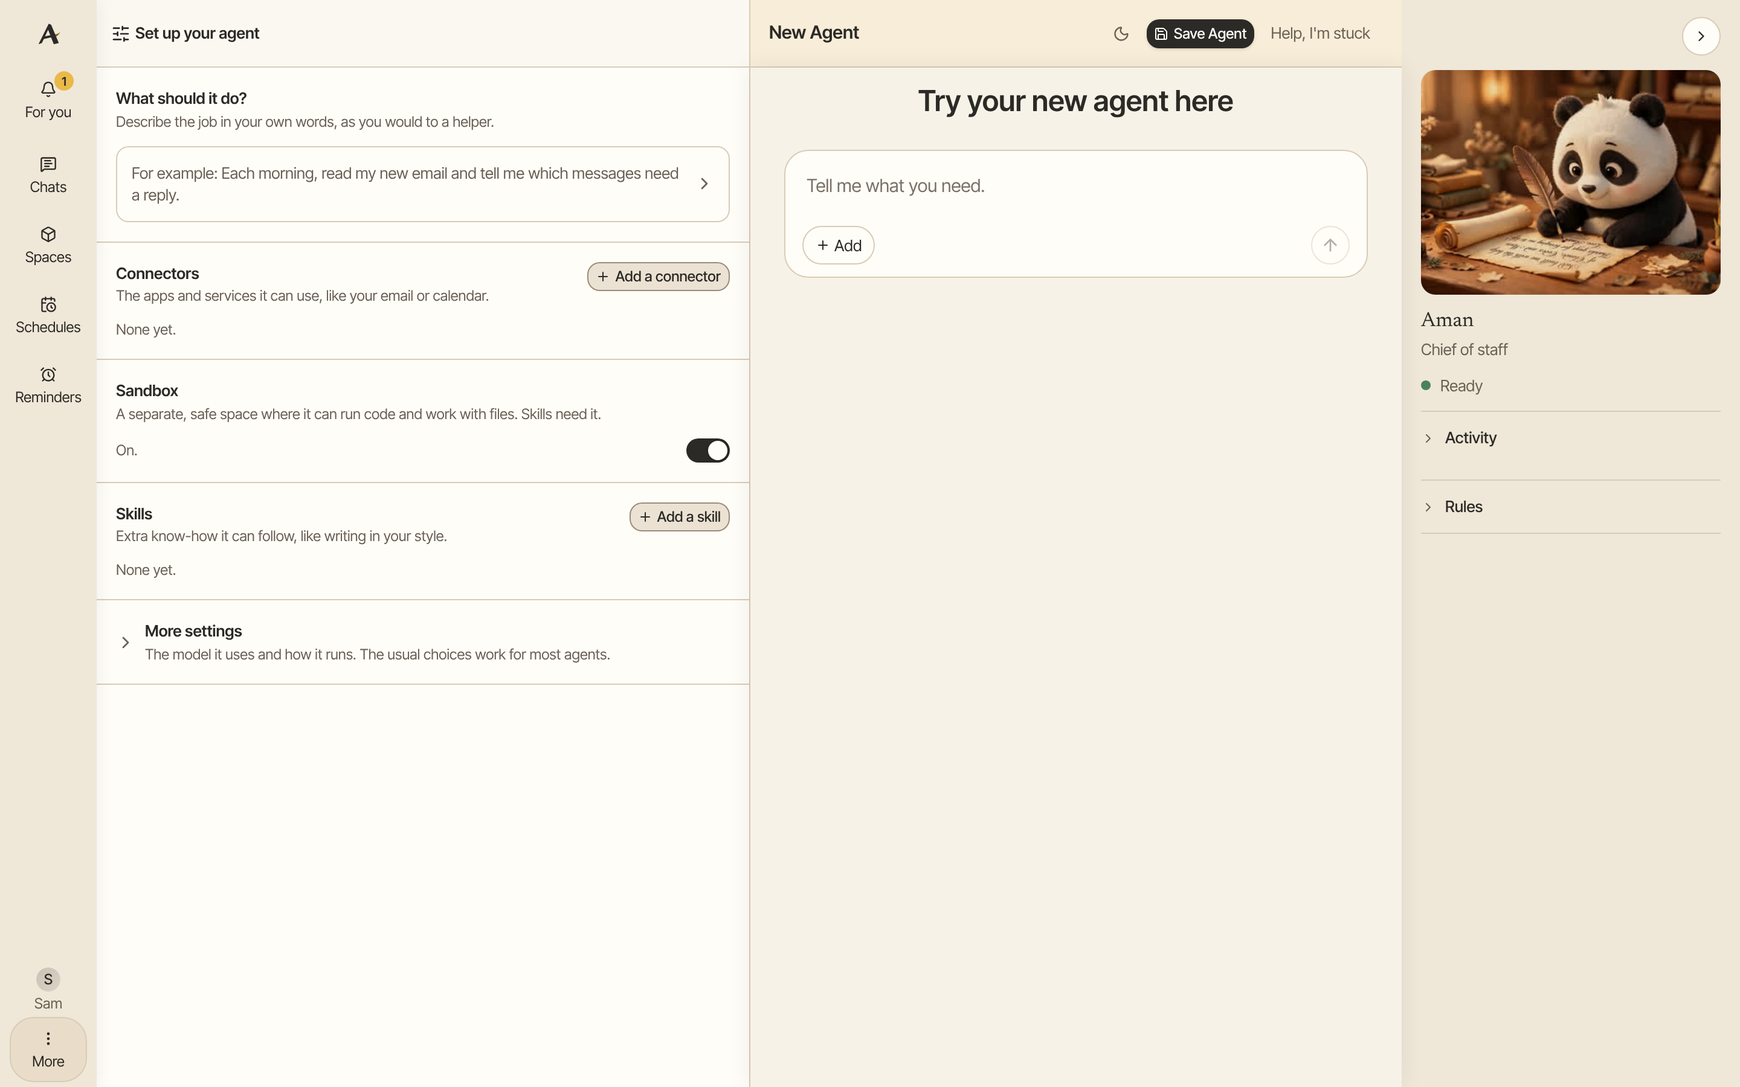
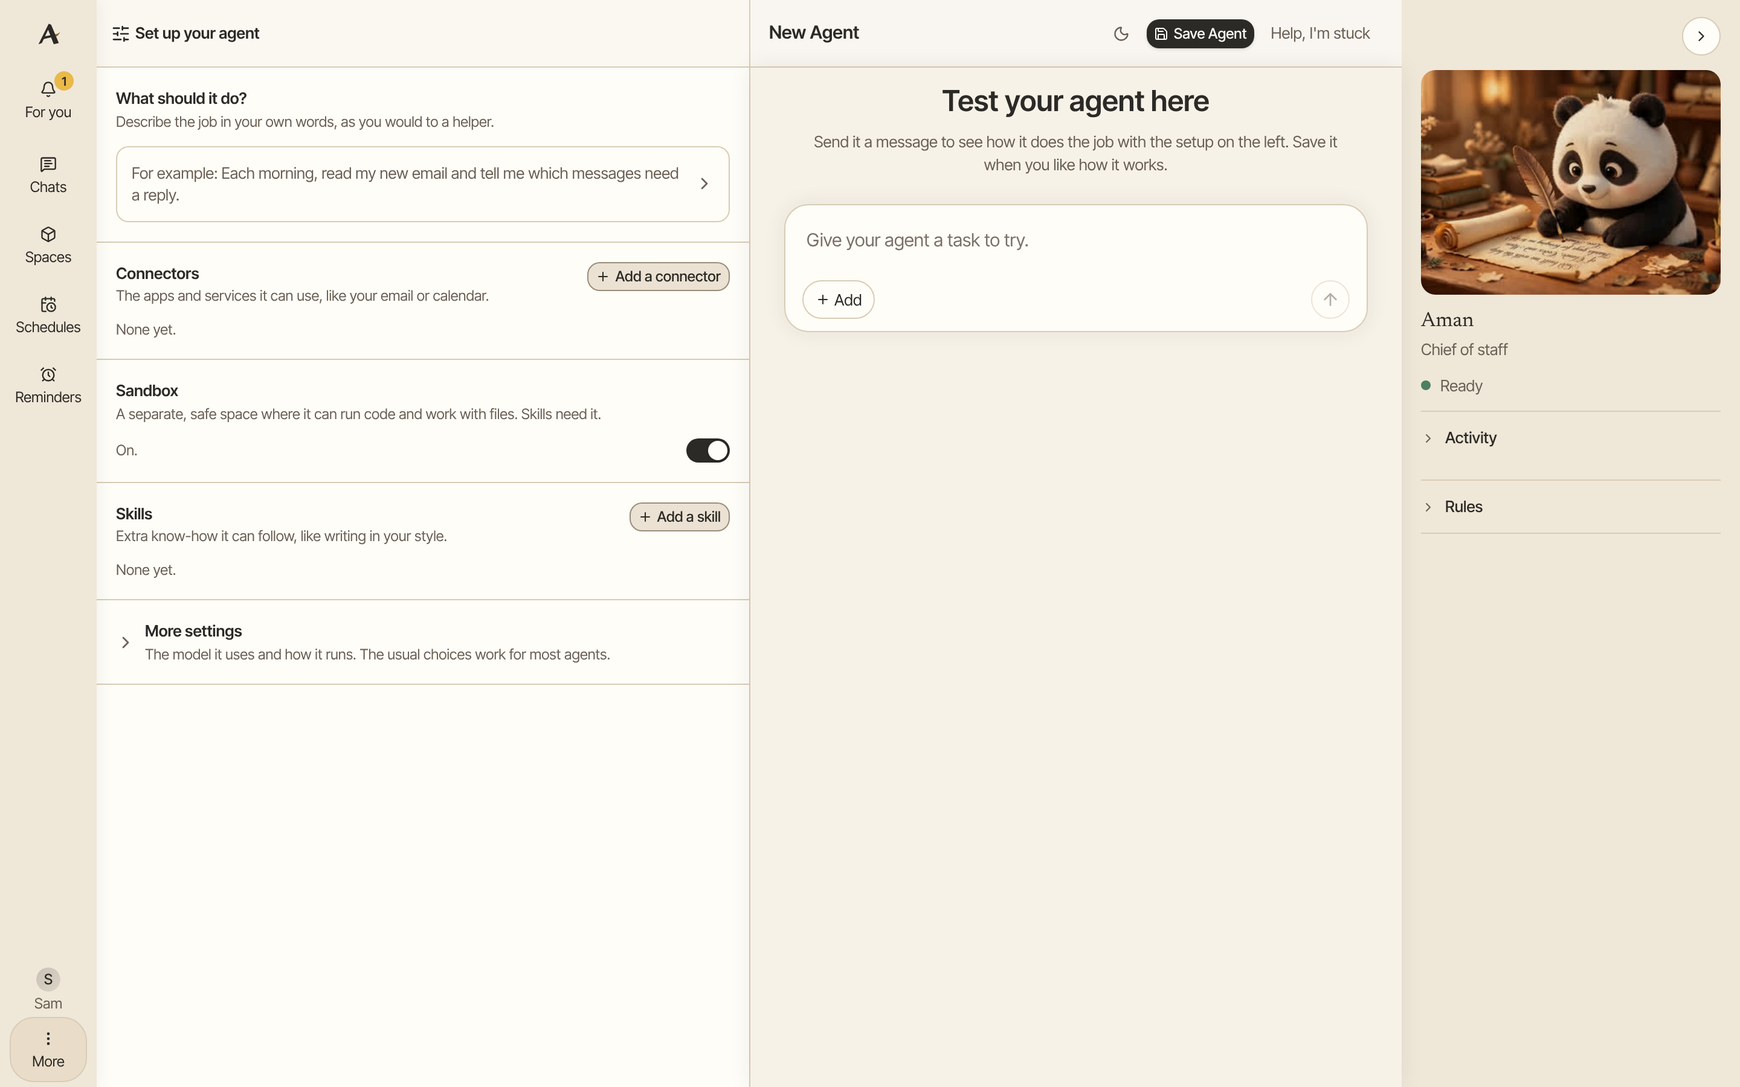
Start new agents with asking questions off and explain the builder's test chat
New agents in the builder now start with Ask user questions turned off,
whatever the last draft chose. Saved agents and the API default are unchanged.

The empty chat beside the builder now reads "Test your agent here" with a
line saying what it is for, and its message box asks for a task to try.
The agents help page, its picture and the create-agent reference say so.

Changed region(s): [[0.4062, 0.0, 0.8125, 0.1867], [0.4688, 0.2178, 0.5625, 0.28]]

diff --git a/packages/trueforge/src/personas/amanGuide/knowledgePack.generated.ts b/packages/trueforge/src/personas/amanGuide/knowledgePack.generated.ts
@@ -18,7 +18,7 @@ export const AMAN_GUIDE_TOPICS: readonly AmanGuideTopic[] = [
     id: 'agents',
     title: 'Agents',
     covers: ['route:agent', 'route:agentImport'],
-    body: 'An agent is a saved setup for one job: a model, instructions, and the connectors and skills it may use. Build it once, then try it whenever you like or have it run on a schedule, such as a weekly summary every Monday.\n\nHow to get there: Click **More** in the left bar, then **Build agent**.\n\n=== "Computer"\n\n    ![The Set up your agent panel beside a new chat, asking what it should do, with Add a connector and Add a skill](../../../../docs/screenshots/app/agents-build-desktop.png)\n\n=== "Phone"\n\n    ![The Set up your agent panel on a phone, asking what it should do, with Add a connector and Add a skill](../../../../docs/screenshots/app/agents-build-phone.png)\n\n!!! note "Agent or persona?"\n\n    An agent does a job you set up ahead of time, and it is what runs your [schedules](schedules.md). A [persona](personas.md) is a helper that chats with you in your everyday chats. If you want someone to talk to, make a persona instead.\n\n## Build an agent\n\n1. Click **More** in the left bar, then **Build agent**. A new chat opens with the **Set up your agent** panel beside it.\n2. Under **What should it do?**, click **Edit Instructions** and write the job in your own words, such as "Every week, sum up my unpaid bills in a short list."\n3. To let it use your apps, click **Add a connector**. To let it run code and work with files, turn on **Sandbox**. To give it extra know-how, click **Add a skill**. Skills need the sandbox, so it stays on while the agent has skills.\n4. The model and run settings sit under **More settings**. The usual choices work for most agents. To pick another model, open **More settings** and click **Edit Model**.\n5. Try it out in the chat until it does what you want.\n6. Click **Save Agent**.\n7. Type a **Name** and say **What it\'s for**. You need both. Spaces and capitals are fine.\n8. Click **Save agent**.\n\n## Use an agent\n\n1. Click **More** in the left bar, then **Agents**.\n2. Click **Try** on your agent\'s row. A chat opens with that agent.\n\nTo run it on a schedule, point at its row and click **Schedule**. See [Schedules](schedules.md).\n\nWhen you make a schedule by asking in a chat, Aman saves an agent for it, named after the schedule. It shows up here, and you can change its tools, instructions or model. Deleting the schedule leaves the agent in place.\n\n## Change, copy or delete an agent\n\nOpen **Agents**, then click the menu at the end of the agent\'s row:\n\n- **Edit** opens the agent so you can change it. Click **Update Agent** to save.\n- **Clone** makes a copy you can change without touching the original.\n- **Manage Schedules** shows the schedules that use it.\n- **Delete** removes it. Aman asks first.\n\n## Choose when an agent summarizes a long chat\n\nA model can only read so much of a chat at once. When a chat gets long, Aman summarizes its oldest part so the model can keep going.\n\n1. In the **Set up your agent** panel, open **More settings**, then click the edit button on **Run settings**.\n2. Find **When to summarize long chats**.\n3. Pick **Automatic (recommended)** to let Aman decide from the model\'s size limit. If that limit isn\'t known, Aman uses a safe default.\n4. Or pick **At a set size** and type the chat size to summarize at. It starts near the size Automatic would use for that model.\n5. Close the panel, then click **Save Agent**.\n\n## Good to know\n\n- An agent follows the same approval rules as Aman. Sending, deleting and installing still wait for your OK.\n- For every option an agent has, see [Create an agent](../../../../docs/create-agent/overview.mdx).\n\n## Related\n\n- [Personas](personas.md)\n- [Schedules](schedules.md)\n- [Skills](skills.md)',
+    body: 'An agent is a saved setup for one job: a model, instructions, and the connectors and skills it may use. Build it once, then try it whenever you like or have it run on a schedule, such as a weekly summary every Monday.\n\nHow to get there: Click **More** in the left bar, then **Build agent**.\n\n=== "Computer"\n\n    ![The Set up your agent panel beside a new chat, asking what it should do, with Add a connector and Add a skill](../../../../docs/screenshots/app/agents-build-desktop.png)\n\n=== "Phone"\n\n    ![The Set up your agent panel on a phone, asking what it should do, with Add a connector and Add a skill](../../../../docs/screenshots/app/agents-build-phone.png)\n\n!!! note "Agent or persona?"\n\n    An agent does a job you set up ahead of time, and it is what runs your [schedules](schedules.md). A [persona](personas.md) is a helper that chats with you in your everyday chats. If you want someone to talk to, make a persona instead.\n\n## Build an agent\n\n1. Click **More** in the left bar, then **Build agent**. A new chat opens with the **Set up your agent** panel beside it.\n2. Under **What should it do?**, click **Edit Instructions** and write the job in your own words, such as "Every week, sum up my unpaid bills in a short list."\n3. To let it use your apps, click **Add a connector**. To let it run code and work with files, turn on **Sandbox**. To give it extra know-how, click **Add a skill**. Skills need the sandbox, so it stays on while the agent has skills.\n4. The model and run settings sit under **More settings**. The usual choices work for most agents. To pick another model, open **More settings** and click **Edit Model**.\n5. Test it in the chat beside the panel, under **Test your agent here**. Give it a task like the job you described and see how it does. Change the setup and try again until it does what you want.\n6. Click **Save Agent**.\n7. Type a **Name** and say **What it\'s for**. You need both. Spaces and capitals are fine.\n8. Click **Save agent**.\n\n## Use an agent\n\n1. Click **More** in the left bar, then **Agents**.\n2. Click **Try** on your agent\'s row. A chat opens with that agent.\n\nTo run it on a schedule, point at its row and click **Schedule**. See [Schedules](schedules.md).\n\nWhen you make a schedule by asking in a chat, Aman saves an agent for it, named after the schedule. It shows up here, and you can change its tools, instructions or model. Deleting the schedule leaves the agent in place.\n\n## Change, copy or delete an agent\n\nOpen **Agents**, then click the menu at the end of the agent\'s row:\n\n- **Edit** opens the agent so you can change it. Click **Update Agent** to save.\n- **Clone** makes a copy you can change without touching the original.\n- **Manage Schedules** shows the schedules that use it.\n- **Delete** removes it. Aman asks first.\n\n## Choose when an agent summarizes a long chat\n\nA model can only read so much of a chat at once. When a chat gets long, Aman summarizes its oldest part so the model can keep going.\n\n1. In the **Set up your agent** panel, open **More settings**, then click the edit button on **Run settings**.\n2. Find **When to summarize long chats**.\n3. Pick **Automatic (recommended)** to let Aman decide from the model\'s size limit. If that limit isn\'t known, Aman uses a safe default.\n4. Or pick **At a set size** and type the chat size to summarize at. It starts near the size Automatic would use for that model.\n5. Close the panel, then click **Save Agent**.\n\n## Good to know\n\n- A new agent doesn\'t stop to ask you questions while it works. To let it ask, open **More settings**, click the edit button on **Run settings** and turn on **Ask user questions**.\n- An agent follows the same approval rules as Aman. Sending, deleting and installing still wait for your OK.\n- For every option an agent has, see [Create an agent](../../../../docs/create-agent/overview.mdx).\n\n## Related\n\n- [Personas](personas.md)\n- [Schedules](schedules.md)\n- [Skills](skills.md)',
   },
   {
     id: 'appearance',

diff --git a/packages/trueforge-ui/test/containers/ComposerContainer.test.tsx b/packages/trueforge-ui/test/containers/ComposerContainer.test.tsx
@@ -9,14 +9,14 @@ import { ToasterProvider } from '@/containers/ToasterContainer.js';
 import type { ApprovalCardPlacement } from '@/hooks/useApprovalCardPlacement.js';
 import { ComposerBusyProvider, notifyComposerBusyFailure } from '@/hooks/useComposerBusyState.js';
 import { composerDraftKey, ComposerDraftScopeProvider } from '@/hooks/useComposerDraft.js';
-import { COMPOSER_PLACEHOLDER_LINES } from '@/hooks/useComposerPlaceholder.js';
+import { AGENT_BUILDER_COMPOSER_PLACEHOLDER, COMPOSER_PLACEHOLDER_LINES } from '@/hooks/useComposerPlaceholder.js';
 import {
   CustomActionRenderersProvider,
   type CustomActionRendererProps,
 } from '@/server/CustomActionRenderersContext.js';
 import { adoptPrivateChat, forgetPrivateChat } from '@/server/privateChatStore.js';
 import { ServerProvider } from '@/server/ServerContext.js';
-import { ShellModeProvider, type AgentConfig } from '@/server/ShellModeContext.js';
+import { ShellModeProvider, useShellMode, type AgentConfig } from '@/server/ShellModeContext.js';
 import { SlotsProvider } from '@/theme/SlotsProvider.js';
 import { SPEAK_VOICE_REPLIES_STORAGE_KEY } from '@/utils/speechReplyPreferences.js';
 import { markDraftFromVoice, noteUserMessage, takeSpokenReply } from '@/utils/voiceTurn.js';
@@ -1216,6 +1216,44 @@ describe('ComposerContainer voice input', () => {
     fireEvent.change(input, { target: { value: 'typing' } });
 
     expect(input.getAttribute('placeholder')).toBe(first);
+  });
+});
+
+function OpenAgentBuilderButton() {
+  const shell = useShellMode();
+  return (
+    <button type="button" onClick={shell.openAgentBuilder}>
+      open builder
+    </button>
+  );
+}
+
+describe('ComposerContainer in the agent builder', () => {
+  beforeEach(() => {
+    agentSpecState.agentSpec = { model: { name: 'test/model' } };
+  });
+
+  it('asks for a task to try instead of an everyday line', async () => {
+    render(
+      <ServerProvider server={createMockAgentUIServer()}>
+        <ShellModeProvider
+          agentConfig={{ mode: 'AgentLibraryWithComposer', defaultAgentSpec: { model: { name: 'test/model' } } }}
+        >
+          <OpenAgentBuilderButton />
+          <RuntimeHarness messages={[]}>
+            <ComposerBusyProvider>
+              <ComposerContainer />
+            </ComposerBusyProvider>
+          </RuntimeHarness>
+        </ShellModeProvider>
+      </ServerProvider>,
+    );
+
+    fireEvent.click(screen.getByRole('button', { name: 'open builder' }));
+
+    await waitFor(() =>
+      expect(screen.getByLabelText('Message input')).toHaveAttribute('placeholder', AGENT_BUILDER_COMPOSER_PLACEHOLDER),
+    );
   });
 });
 

diff --git a/packages/trueforge-ui/test/server/draftSpecPreferences.test.ts b/packages/trueforge-ui/test/server/draftSpecPreferences.test.ts
@@ -43,7 +43,23 @@ describe('selectDraftSpecPreferences', () => {
       }),
     ).toEqual({
       model: { name: 'm' },
-      config: { sandbox: { enabled: true } },
+      config: { sandbox: { enabled: true }, askUserQuestions: { enabled: false } },
+    });
+  });
+
+  it('starts asking the user questions off for every new agent', () => {
+    expect(
+      selectAgentDraftSpecPreferences({
+        model: { name: 'm' },
+        config: { askUserQuestions: { enabled: true } },
+      }),
+    ).toEqual({
+      model: { name: 'm' },
+      config: { askUserQuestions: { enabled: false } },
+    });
+    expect(selectAgentDraftSpecPreferences({ model: { name: 'm' } })).toEqual({
+      model: { name: 'm' },
+      config: { askUserQuestions: { enabled: false } },
     });
   });
 
@@ -69,6 +85,7 @@ describe('selectDraftSpecPreferences', () => {
         iterationLimit: 4,
         sandbox: { enabled: false, fileDownloads: false },
         contextManagement: { compaction: { enabled: false } },
+        askUserQuestions: { enabled: false },
       },
     });
   });
@@ -94,7 +111,7 @@ describe('draft preference storage', () => {
     expect(readDraftSpecPreferences('chat')).toEqual({ model: { name: 'chat/model' } });
     expect(readDraftSpecPreferences('agent')).toEqual({
       model: { name: 'agent/model' },
-      config: { sandbox: { enabled: true } },
+      config: { sandbox: { enabled: true }, askUserQuestions: { enabled: false } },
     });
   });
 
@@ -118,7 +135,7 @@ describe('draft preference storage', () => {
     expect(readDraftSpecPreferences('agent')).toEqual({
       model: { name: 'legacy/model' },
       skills: [{ name: 'Skill' }],
-      config: { sandbox: { enabled: true } },
+      config: { sandbox: { enabled: true }, askUserQuestions: { enabled: false } },
     });
     expect(window.localStorage.getItem(DRAFT_SPEC_PREFERENCES_STORAGE_KEY)).toBeNull();
   });
@@ -154,7 +171,7 @@ describe('draft preference storage', () => {
     setItemSpy.mockRestore();
     expect(readDraftSpecPreferences('agent')).toEqual({
       model: { name: 'legacy/model' },
-      config: { sandbox: { enabled: true } },
+      config: { sandbox: { enabled: true }, askUserQuestions: { enabled: false } },
     });
     expect(window.localStorage.getItem(DRAFT_SPEC_PREFERENCES_STORAGE_KEY)).toBeNull();
   });

diff --git a/packages/trueforge-ui/src/containers/ThreadContainer.tsx b/packages/trueforge-ui/src/containers/ThreadContainer.tsx
@@ -61,6 +61,9 @@ function ThreadMessage({ isEditing }: { isEditing: boolean }) {
   return <AssistantMessageContainer />;
 }
 
+const AGENT_BUILDER_TEST_CHAT_HINT =
+  'Send it a message to see how it does the job with the setup on the left. Save it when you like how it works.';
+
 export type ThreadContainerProps = {
   /** Composer for the empty-welcome and docked bottom areas. `<Thread />` passes `<ComposerContainer />`. */
   composer?: ReactNode;
@@ -103,14 +106,21 @@ export function ThreadContainer({ composer }: ThreadContainerProps) {
     });
     return () => cancelAnimationFrame(frame);
   }, [threadKey]);
+  const isUnnamedAgentBuilder =
+    shell?.mode.status === 'active' &&
+    (shell.mode.agentName == null || shell.mode.agentName.length === 0) &&
+    shell.mode.isMutable &&
+    shell.mode.isCreateAgent;
   const welcomeHeading =
     shell?.mode.status === 'active'
       ? shell.mode.agentName != null && shell.mode.agentName.length > 0
         ? shell.mode.agentName
-        : shell.mode.isMutable && shell.mode.isCreateAgent
-          ? 'Try your new agent here'
+        : isUnnamedAgentBuilder
+          ? 'Test your agent here'
           : undefined
       : undefined;
+  // The builder's chat looks like any other chat, so it says what it is for.
+  const welcomeSubheading = isUnnamedAgentBuilder ? AGENT_BUILDER_TEST_CHAT_HINT : undefined;
 
   return (
     <MemoryTurnContextProvider>
@@ -129,7 +139,9 @@ export function ThreadContainer({ composer }: ThreadContainerProps) {
                       <ThreadPrimitive.Viewport asChild autoScroll={!isEmpty}>
                         <ThreadViewportShell isEmpty={isEmpty}>
                           {helpHere ? <HelpChatPanel /> : null}
-                          {isEmpty && !helpHere && <WelcomeScreen heading={welcomeHeading} />}
+                          {isEmpty && !helpHere && (
+                            <WelcomeScreen heading={welcomeHeading} subheading={welcomeSubheading} />
+                          )}
                           {isEmpty && !isLoading && (
                             <>
                               {helpHere ? null : <ThreadWorkOnRepoControls />}

diff --git a/packages/trueforge-ui/src/hooks/useComposerPlaceholder.ts b/packages/trueforge-ui/src/hooks/useComposerPlaceholder.ts
@@ -2,8 +2,12 @@ import { useAuiState } from '@assistant-ui/react';
 
 import { HELP_COMPOSER_PLACEHOLDER } from '../help/helpModel.js';
 import { useOptionalHelp } from '../help/HelpProvider.js';
+import { useOptionalShellMode } from '../server/ShellModeContext.js';
 
-/** The only composer placeholders. The assistant asks these itself, so they never carry its name. */
+/** The agent builder's chat is for trying the draft agent, so its box asks for a test task. */
+export const AGENT_BUILDER_COMPOSER_PLACEHOLDER = 'Give your agent a task to try.';
+
+/** The everyday composer placeholders. The assistant asks these itself, so they never carry its name. */
 export const COMPOSER_PLACEHOLDER_LINES: readonly string[] = [
   "What's on your mind?",
   'What can I take off your plate?',
@@ -44,7 +48,11 @@ export function resolveComposerPlaceholder({ chatId, random }: { chatId: string;
 export function useComposerPlaceholder(): string {
   const chatId = useAuiState(state => state.threadListItem.id);
   const help = useOptionalHelp();
+  const shell = useOptionalShellMode();
   // In the help chat the composer is the only place to type, so it carries the help hint.
   if (help !== null && help.isSessionFor(chatId)) return HELP_COMPOSER_PLACEHOLDER;
+  if (shell?.mode.status === 'active' && shell.mode.isMutable && shell.mode.isCreateAgent) {
+    return AGENT_BUILDER_COMPOSER_PLACEHOLDER;
+  }
   return resolveComposerPlaceholder({ chatId, random: Math.random });
 }

diff --git a/packages/trueforge-ui/test/server/ShellModeContext.test.tsx b/packages/trueforge-ui/test/server/ShellModeContext.test.tsx
@@ -955,7 +955,7 @@ describe('ShellModeProvider', () => {
 
     expect(readDraftSpecPreferences('agent')).toEqual({
       model: { name: 'chosen/model' },
-      config: { sandbox: { enabled: true } },
+      config: { sandbox: { enabled: true }, askUserQuestions: { enabled: false } },
     });
   });
 
@@ -980,6 +980,7 @@ describe('ShellModeProvider', () => {
 
     expect(readDraftSpecPreferences('agent')).toEqual({
       model: { name: 'chosen/model' },
+      config: { askUserQuestions: { enabled: false } },
     });
   });
 
@@ -1005,7 +1006,7 @@ describe('ShellModeProvider', () => {
 
     expect(readDraftSpecPreferences('agent')).toEqual({
       model: { name: 'chosen/model' },
-      config: { sandbox: { enabled: false } },
+      config: { sandbox: { enabled: false }, askUserQuestions: { enabled: false } },
     });
   });
 
@@ -1039,7 +1040,7 @@ describe('ShellModeProvider', () => {
     expect(readDraftSpecPreferences('chat')).toEqual({ model: { name: 'remembered/model' } });
     expect(readDraftSpecPreferences('agent')).toEqual({
       model: { name: 'remembered/model' },
-      config: { sandbox: { enabled: true } },
+      config: { sandbox: { enabled: true }, askUserQuestions: { enabled: false } },
     });
   });
 });

diff --git a/packages/trueforge-ui/src/atoms/WelcomeScreen.tsx b/packages/trueforge-ui/src/atoms/WelcomeScreen.tsx
@@ -5,11 +5,18 @@ import { cn } from './lib/cn.js';
 
 export type WelcomeScreenProps = {
   heading?: ReactNode;
+  /** One short line under the heading that says what this chat is for. */
+  subheading?: ReactNode;
   icon?: ReactNode;
   className?: string;
 };
 
-export function WelcomeScreen({ heading = 'How can I help you today?', icon = null, className }: WelcomeScreenProps) {
+export function WelcomeScreen({
+  heading = 'How can I help you today?',
+  subheading,
+  icon = null,
+  className,
+}: WelcomeScreenProps) {
   const preset = useOptionalThemePreset();
 
   return (
@@ -35,6 +42,11 @@ export function WelcomeScreen({ heading = 'How can I help you today?', icon = nu
       >
         {heading}
       </h1>
+      {subheading === undefined ? null : (
+        <p className="text-text-secondary mt-2 max-w-md text-sm fill-mode-both motion-safe:animate-in motion-safe:fade-in motion-reduce:animate-none delay-75 duration-200">
+          {subheading}
+        </p>
+      )}
     </div>
   );
 }

diff --git a/packages/trueforge-ui/src/server/draftSpecPreferences.ts b/packages/trueforge-ui/src/server/draftSpecPreferences.ts
@@ -66,11 +66,14 @@ export function selectChatDraftSpecPreferences(spec: AgentSpec): AgentSpec {
   };
 }
 
-/** New Agent: full composer seed including runtime config (sandbox, ask-user, …). */
+/**
+ * New Agent: full composer seed including runtime config (sandbox, …). Asking the user questions
+ * starts off for every new agent, whatever the last draft chose; the builder can turn it on.
+ */
 export function selectAgentDraftSpecPreferences(spec: AgentSpec): AgentSpec {
   return {
     ...selectChatDraftSpecPreferences(spec),
-    ...(spec.config !== undefined ? { config: spec.config } : {}),
+    config: { ...spec.config, askUserQuestions: { enabled: false } },
   };
 }
 

diff --git a/packages/trueforge/guide/topics/agents.md b/packages/trueforge/guide/topics/agents.md
@@ -26,7 +26,7 @@ How to get there: Click **More** in the left bar, then **Build agent**.
 2. Under **What should it do?**, click **Edit Instructions** and write the job in your own words, such as "Every week, sum up my unpaid bills in a short list."
 3. To let it use your apps, click **Add a connector**. To let it run code and work with files, turn on **Sandbox**. To give it extra know-how, click **Add a skill**. Skills need the sandbox, so it stays on while the agent has skills.
 4. The model and run settings sit under **More settings**. The usual choices work for most agents. To pick another model, open **More settings** and click **Edit Model**.
-5. Try it out in the chat until it does what you want.
+5. Test it in the chat beside the panel, under **Test your agent here**. Give it a task like the job you described and see how it does. Change the setup and try again until it does what you want.
 6. Click **Save Agent**.
 7. Type a **Name** and say **What it's for**. You need both. Spaces and capitals are fine.
 8. Click **Save agent**.
@@ -61,6 +61,7 @@ A model can only read so much of a chat at once. When a chat gets long, Aman sum
 
 ## Good to know
 
+- A new agent doesn't stop to ask you questions while it works. To let it ask, open **More settings**, click the edit button on **Run settings** and turn on **Ask user questions**.
 - An agent follows the same approval rules as Aman. Sending, deleting and installing still wait for your OK.
 - For every option an agent has, see [Create an agent](../../../../docs/create-agent/overview.mdx).
 
